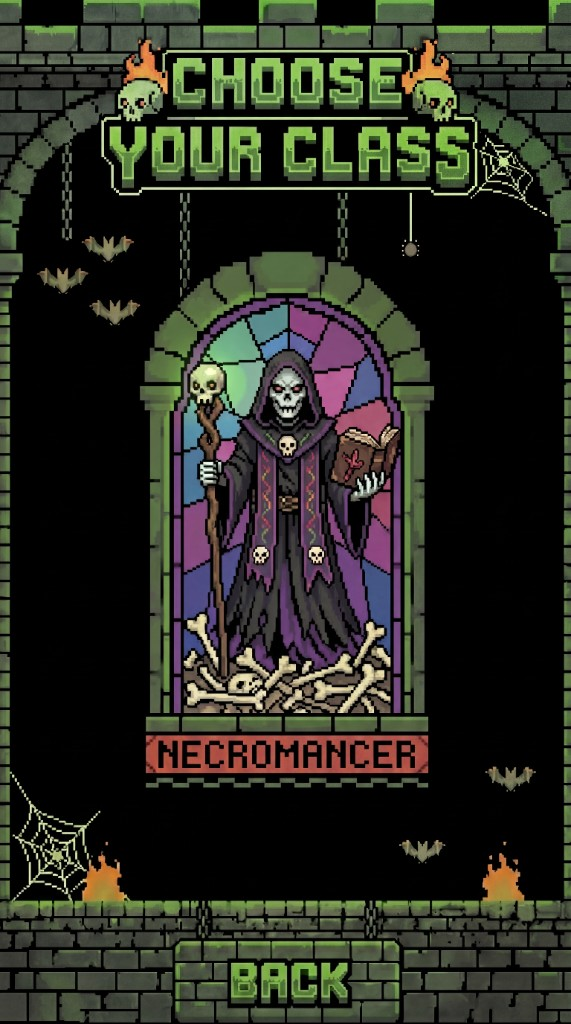
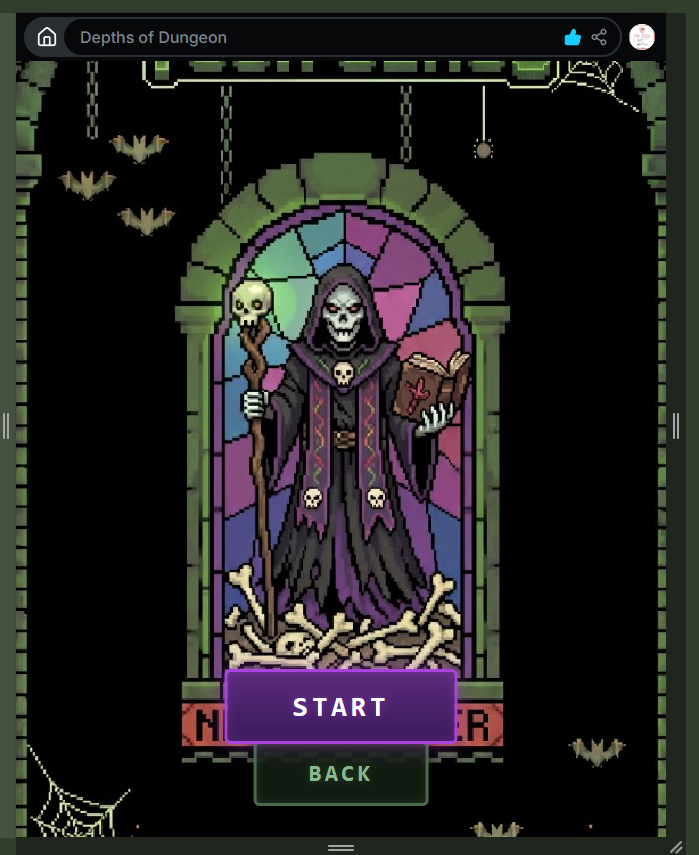
Build deployed

diff --git a/src/game/Game.tsx b/src/game/Game.tsx
@@ -4367,14 +4367,11 @@ export function Game() {
           position: 'fixed',
           top: 0,
           left: 0,
-          right: 0,
-          bottom: 0,
-          background: '#000',
-          zIndex: 9999,
+          width: '100vw',
+          height: '100vh',
+          background: '#000000',
+          zIndex: 999999,
           overflow: 'hidden',
-          display: 'flex',
-          alignItems: 'center',
-          justifyContent: 'center',
         }}>
           {/* Portrait fills the ENTIRE screen */}
           {(classPortraits[`${showClassDetail}-fullscreen`] || classPortraits[showClassDetail]) && (
@@ -4383,62 +4380,59 @@ export function Game() {
               alt={showClassDetail}
               style={{
                 position: 'absolute',
-                top: 0,
-                left: 0,
-                width: '100%',
+                top: '50%',
+                left: '50%',
+                transform: 'translate(-50%, -50%)',
+                minWidth: '100%',
+                minHeight: '100%',
+                width: 'auto',
                 height: '100%',
                 objectFit: 'cover',
-                objectPosition: 'center center',
                 imageRendering: 'pixelated',
               }}
             />
           )}
           
-          {/* Simple BACK button at bottom */}
+          {/* Tap the BACK area in the image or use this small corner button */}
           <button
             style={{
               position: 'absolute',
-              bottom: 'clamp(16px, 4vh, 32px)',
-              left: '50%',
-              transform: 'translateX(-50%)',
-              background: 'rgba(20, 30, 20, 0.9)',
-              border: '3px solid #4a6a4a',
-              borderRadius: 6,
-              padding: 'clamp(10px, 2vh, 16px) clamp(32px, 8vw, 64px)',
+              top: 8,
+              left: 8,
+              background: 'rgba(0, 0, 0, 0.6)',
+              border: '2px solid #4a6a4a',
+              borderRadius: 4,
+              padding: '6px 12px',
               color: '#8ab88a',
-              fontSize: 'clamp(16px, 4vw, 24px)',
+              fontSize: 12,
               fontFamily: 'monospace',
               fontWeight: 'bold',
               cursor: 'pointer',
-              textShadow: '0 0 8px #4a8a4a66',
-              boxShadow: '0 0 16px rgba(0,0,0,0.8), inset 0 0 8px rgba(74, 106, 74, 0.3)',
-              letterSpacing: 3,
               zIndex: 10,
             }}
             onClick={() => setShowClassDetail(null)}
           >
-            BACK
+            ← BACK
           </button>
           
-          {/* START button - to begin game */}
+          {/* START button - top right corner to not cover art */}
           <button
             style={{
               position: 'absolute',
-              bottom: 'clamp(70px, 12vh, 100px)',
-              left: '50%',
-              transform: 'translateX(-50%)',
+              top: 8,
+              right: 8,
               background: 'linear-gradient(180deg, #5a2a7a 0%, #3a1a5a 100%)',
-              border: '3px solid #aa44dd',
-              borderRadius: 6,
-              padding: 'clamp(12px, 2.5vh, 18px) clamp(40px, 10vw, 80px)',
+              border: '2px solid #aa44dd',
+              borderRadius: 4,
+              padding: '6px 16px',
               color: '#ffffff',
-              fontSize: 'clamp(18px, 5vw, 28px)',
+              fontSize: 12,
               fontFamily: 'monospace',
               fontWeight: 'bold',
               cursor: 'pointer',
-              textShadow: '0 0 10px #aa44dd88',
-              boxShadow: '0 0 20px rgba(170, 68, 221, 0.5), inset 0 0 10px rgba(170, 68, 221, 0.3)',
-              letterSpacing: 4,
+              textShadow: '0 0 6px #aa44dd88',
+              boxShadow: '0 0 10px rgba(170, 68, 221, 0.4)',
+              letterSpacing: 2,
               zIndex: 10,
             }}
             onClick={() => {
@@ -4446,7 +4440,7 @@ export function Game() {
               setScreen('zoneSelect');
             }}
           >
-            START
+            START →
           </button>
         </div>,
         document.body,
